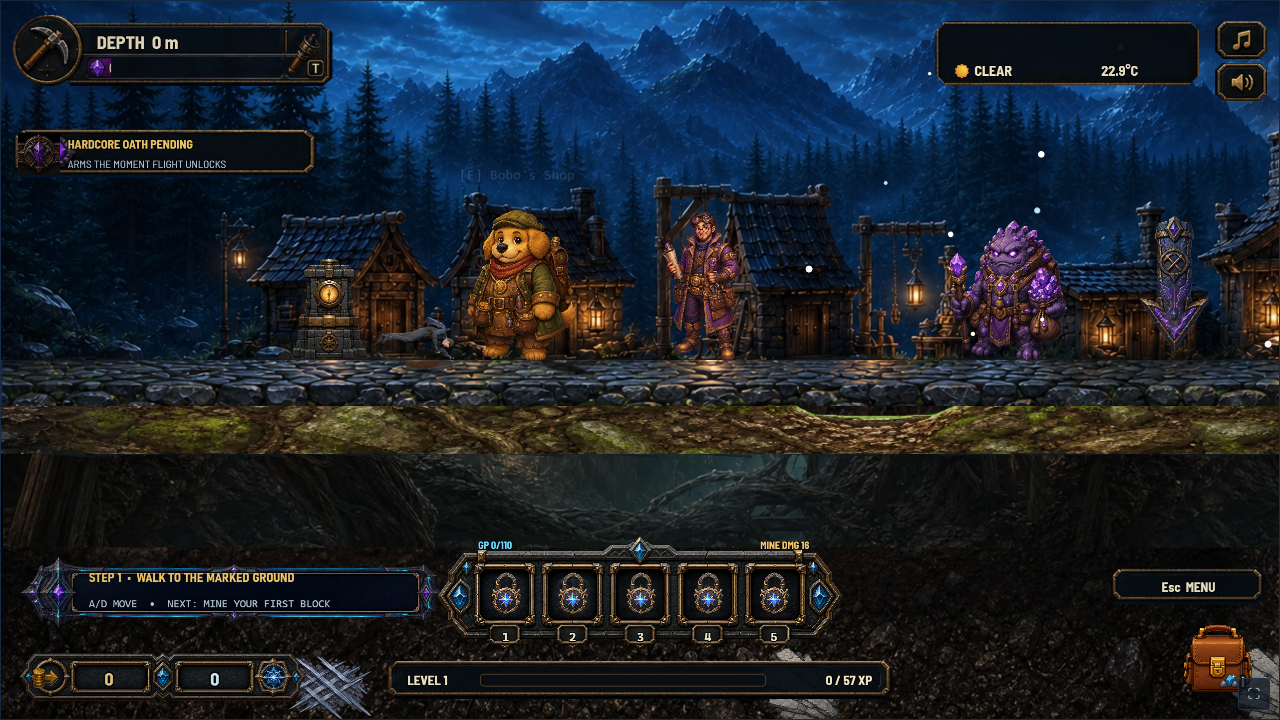
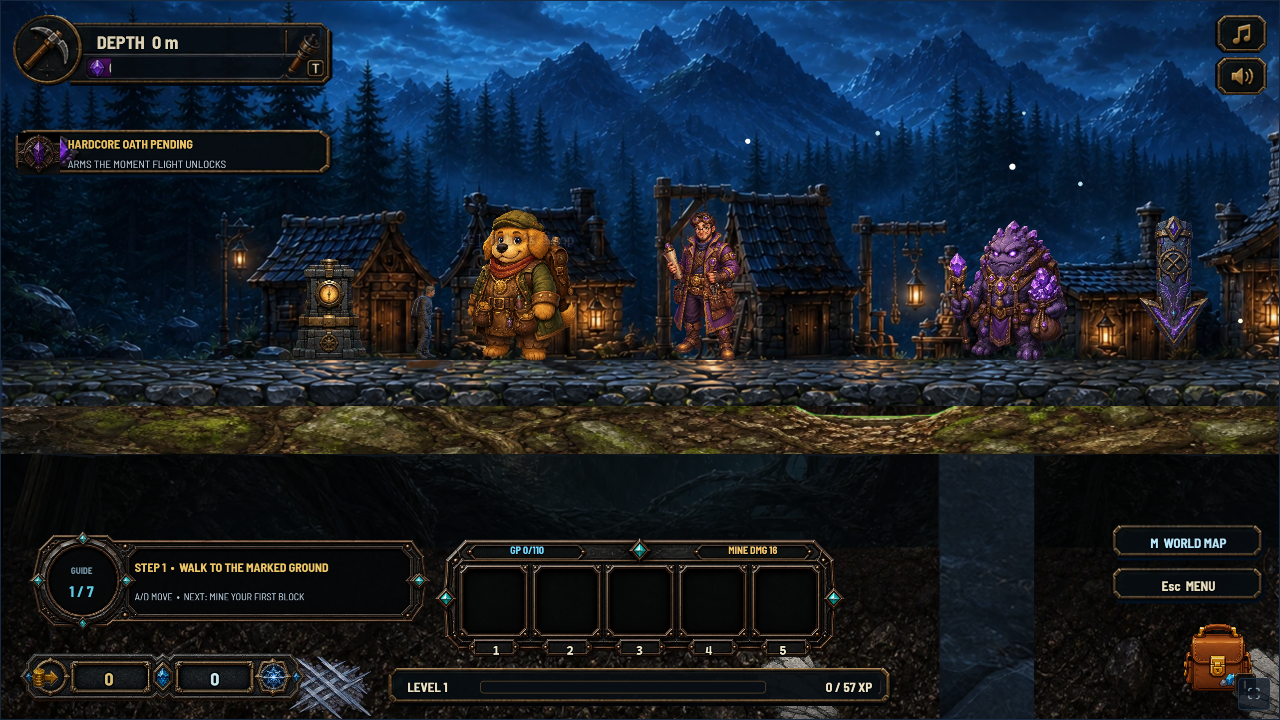
fix: make clean-clone demo runtime complete

diff --git a/world/rendering/RuntimeAssetCatalog.js b/world/rendering/RuntimeAssetCatalog.js
@@ -26,11 +26,15 @@ function inferPolicy(key, config) {
   if (/screen-record|screenrecord/.test(value)) {
     return [config.owners.screenCapture, GAMEPLAY_FEATURE_IDS.SCREEN_CAPTURE, RUNTIME_ASSET_PACK_IDS.screenCapture];
   }
-  if (/level-?2|leveltwo|second-world|surface-hero|lava-dirt|obsidian|ember-ore|magma-crystal/.test(value)) {
-    return [config.owners.levelTwo, GAMEPLAY_FEATURE_IDS.LEVEL_TWO, RUNTIME_ASSET_PACK_IDS.levelTwo];
-  }
+  // Archive portraits are synchronous ESC-menu UI, even when a Titan name also
+  // contains a gated world token such as "obsidian". Keep this specific policy
+  // ahead of the broad Level Two matcher so presentation art never inherits a
+  // gameplay capability by accident.
   if (/^titan-discovery-(?!chamber)/.test(value)) {
     return [config.owners.featureTitanArchive, null, "titan-archive"];
+  }
+  if (/level-?2|leveltwo|second-world|surface-hero|lava-dirt|obsidian|ember-ore|magma-crystal/.test(value)) {
+    return [config.owners.levelTwo, GAMEPLAY_FEATURE_IDS.LEVEL_TWO, RUNTIME_ASSET_PACK_IDS.levelTwo];
   }
   if (/star-identity|star-block-(steady|pulse)|sky-star-(release|fracture)/.test(value)) {
     return [config.owners.starRarity, null, RUNTIME_ASSET_PACK_IDS.starRarity];
@@ -84,8 +88,9 @@ export class RuntimeAssetCatalog {
     const previous = this.descriptors.get(asset.key);
     const inferred = inferPolicy(asset.key, this.config);
     const owner = metadata.owner || previous?.owner || inferred[0];
-    const capability = metadata.capability ?? previous?.capability
-      ?? OWNER_CAPABILITIES[owner] ?? inferred[1];
+    const capability = Object.prototype.hasOwnProperty.call(metadata, "capability")
+      ? metadata.capability
+      : previous?.capability ?? OWNER_CAPABILITIES[owner] ?? inferred[1];
     const descriptor = Object.freeze({
       key: asset.key,
       path: asset.path || previous?.path || null,
@@ -175,9 +180,13 @@ export class RuntimeAssetCatalog {
       ? residentKeys.filter(key => !this.descriptors.has(key))
       : [];
     const gatedResidentOwners = new Set();
+    const gatedResidentKeys = [];
     for (const key of residentKeys) {
       const descriptor = this.descriptors.get(key);
-      if (descriptor && !this.isAllowed(descriptor)) gatedResidentOwners.add(descriptor.owner);
+      if (descriptor && !this.isAllowed(descriptor)) {
+        gatedResidentOwners.add(descriptor.owner);
+        gatedResidentKeys.push(key);
+      }
     }
     return Object.freeze({
       profileId: this.capabilities?.profileId || "unknown",
@@ -187,6 +196,7 @@ export class RuntimeAssetCatalog {
       blockedOwners: Object.freeze([...this.blockedOwners].sort()),
       blockedKeys: Object.freeze([...this.blockedKeys].sort()),
       gatedResidentOwners: Object.freeze([...gatedResidentOwners].sort()),
+      gatedResidentKeys: Object.freeze(gatedResidentKeys.sort()),
       untrackedTextures: untrackedKeys.length,
     });
   }

diff --git a/testing/2026-08-02-hud-controls-visual-harness.js b/testing/2026-08-02-hud-controls-visual-harness.js
@@ -4,6 +4,7 @@ import { UIInventoryPopup } from "../ui/overlays/UIInventoryPopup.js";
 import { UIMuteToggle } from "../ui/hud/UIMuteToggle.js";
 import { APPROVED_HUD_SKIN } from "../values/approvedHudSkin.js";
 import { ASSET_KEYS } from "../values/assetKeys.js";
+import { WORLD_VISUAL_SEMANTIC_ASSETS } from "../values/worldVisualSemanticAssets.js";
 
 class HudControlsVisualHarnessScene extends Phaser.Scene {
   constructor() {
@@ -14,6 +15,18 @@ class HudControlsVisualHarnessScene extends Phaser.Scene {
     for (const [id, path] of Object.entries(APPROVED_HUD_SKIN.paths)) {
       this.load.image(ASSET_KEYS.ui.approvedHud[id], `../${path}`);
     }
+    const soil = ASSET_KEYS.tiles.dynamicSoil;
+    this.load.image(
+      WORLD_VISUAL_SEMANTIC_ASSETS.resources.atlas.key,
+      `../${WORLD_VISUAL_SEMANTIC_ASSETS.resources.atlas.path}`,
+    );
+    this.load.image(soil.bases[0][0], "../sprites/tiles/dynamic-soil/bases/soil-000-200-v1.webp");
+    this.load.image(soil.bases[2][0], "../sprites/tiles/dynamic-soil/bases/soil-400-600-v1.webp");
+    this.load.image(soil.bases[4][0], "../sprites/tiles/dynamic-soil/bases/soil-800-1000-v1.webp");
+    this.load.image(soil.cracks[4], "../sprites/tiles/dynamic-soil/overlays/crack-stage-5.png");
+    this.load.image(soil.hardness.compact, "../sprites/tiles/dynamic-soil/overlays/hardness-compact.png");
+    this.load.image(soil.hardness.strong, "../sprites/tiles/dynamic-soil/overlays/hardness-strong.png");
+    this.load.image(ASSET_KEYS.tiles.lavaDirtHp5, "../sprites/tiles/second-world/lava-dirt/5-of-5-hp.webp");
   }
 
   create() {
@@ -77,7 +90,7 @@ class HudControlsVisualHarnessScene extends Phaser.Scene {
       combo: false,
       buff: false,
     });
-    this.hudSystem.updateClockWeather();
+    this.hudSystem.updateClock();
 
     this.uiMuteToggle = new UIMuteToggle(this, this.soundSystem);
     this.uiInventoryPopup = new UIInventoryPopup(this);
@@ -154,12 +167,12 @@ class HudControlsVisualHarnessScene extends Phaser.Scene {
             y: this.uiMuteToggle.container.y + sfxHit.y,
           },
           inventory: {
-            x: this.hudSystem.lootBagContainer.x + lootHit.x,
-            y: this.hudSystem.lootBagContainer.y + lootHit.y,
+            x: this.hudSystem.lootBagContainer.x,
+            y: this.hudSystem.lootBagContainer.y,
           },
           pause: {
-            x: this.hudSystem.pauseMenuContainer.x + pauseHit.x,
-            y: this.hudSystem.pauseMenuContainer.y + pauseHit.y,
+            x: this.hudSystem.pauseMenuContainer.x,
+            y: this.hudSystem.pauseMenuContainer.y,
           },
         },
         quickControls: this.hudSystem.quickControls?.getHealthSnapshot?.(),

diff --git a/ui/scenes/BootScene.js b/ui/scenes/BootScene.js
@@ -310,6 +310,7 @@ export class BootScene extends Phaser.Scene {
   queueResidentUiImage(key, path, consumer) {
     this.queueImage(key, path, {
       owner: RUNTIME_ASSET_LOADING.owners.bootCore,
+      capability: null,
       packId: RUNTIME_ASSET_PACK_IDS.bootCore,
       residencyClass: RUNTIME_ASSET_RESIDENCY_CLASSES.boot,
       managed: false,
@@ -1019,12 +1020,15 @@ export class BootScene extends Phaser.Scene {
     } else {
       // The inventory collection remains a complete visual field guide even
       // when Level Two gameplay is excluded from the active capability pack.
-      loadDamageStages(
-        [ASSET_KEYS.tiles.lavaDirtHp1, ASSET_KEYS.tiles.lavaDirtHp2,
-          ASSET_KEYS.tiles.lavaDirtHp3, ASSET_KEYS.tiles.lavaDirtHp4,
-          ASSET_KEYS.tiles.lavaDirtHp5],
-        "sprites/tiles/second-world/lava-dirt",
-      );
+      [ASSET_KEYS.tiles.lavaDirtHp1, ASSET_KEYS.tiles.lavaDirtHp2,
+        ASSET_KEYS.tiles.lavaDirtHp3, ASSET_KEYS.tiles.lavaDirtHp4,
+        ASSET_KEYS.tiles.lavaDirtHp5].forEach((key, index) => {
+        this.queueResidentUiImage(
+          key,
+          `sprites/tiles/second-world/lava-dirt/${index + 1}-of-5-hp.webp`,
+          "inventory-world-guide",
+        );
+      });
     }
 
     this.load.image(

diff --git a/ui/components/LoadingScreenView.js b/ui/components/LoadingScreenView.js
@@ -3,7 +3,10 @@ import { BRAND_CONFIG } from "../../values/branding.js";
 import { UI_COLORS } from "../../values/uiColors.js";
 import { UI_FONTS } from "../../values/uiLayout.js";
 
-const MENU_BACKGROUND_BASE_PATH = "exports/pallet-v10/dig_game_full_non_tile_runtime_assets_v10_08_07_2026/sprites/backgrounds/background-database/";
+// These six approved menu backgrounds are tracked runtime assets. Do not route
+// production loading through the untracked pallet export that originally
+// supplied them; isolated worktrees and clean clones must resolve the same art.
+const MENU_BACKGROUND_BASE_PATH = "sprites/backgrounds/background-database/";
 
 export const MENU_BACKGROUND_ASSETS = Object.freeze([
   {
@@ -418,4 +421,3 @@ export function createMenuLoadingScreen(scene, options = {}) {
     },
   };
 }
-
